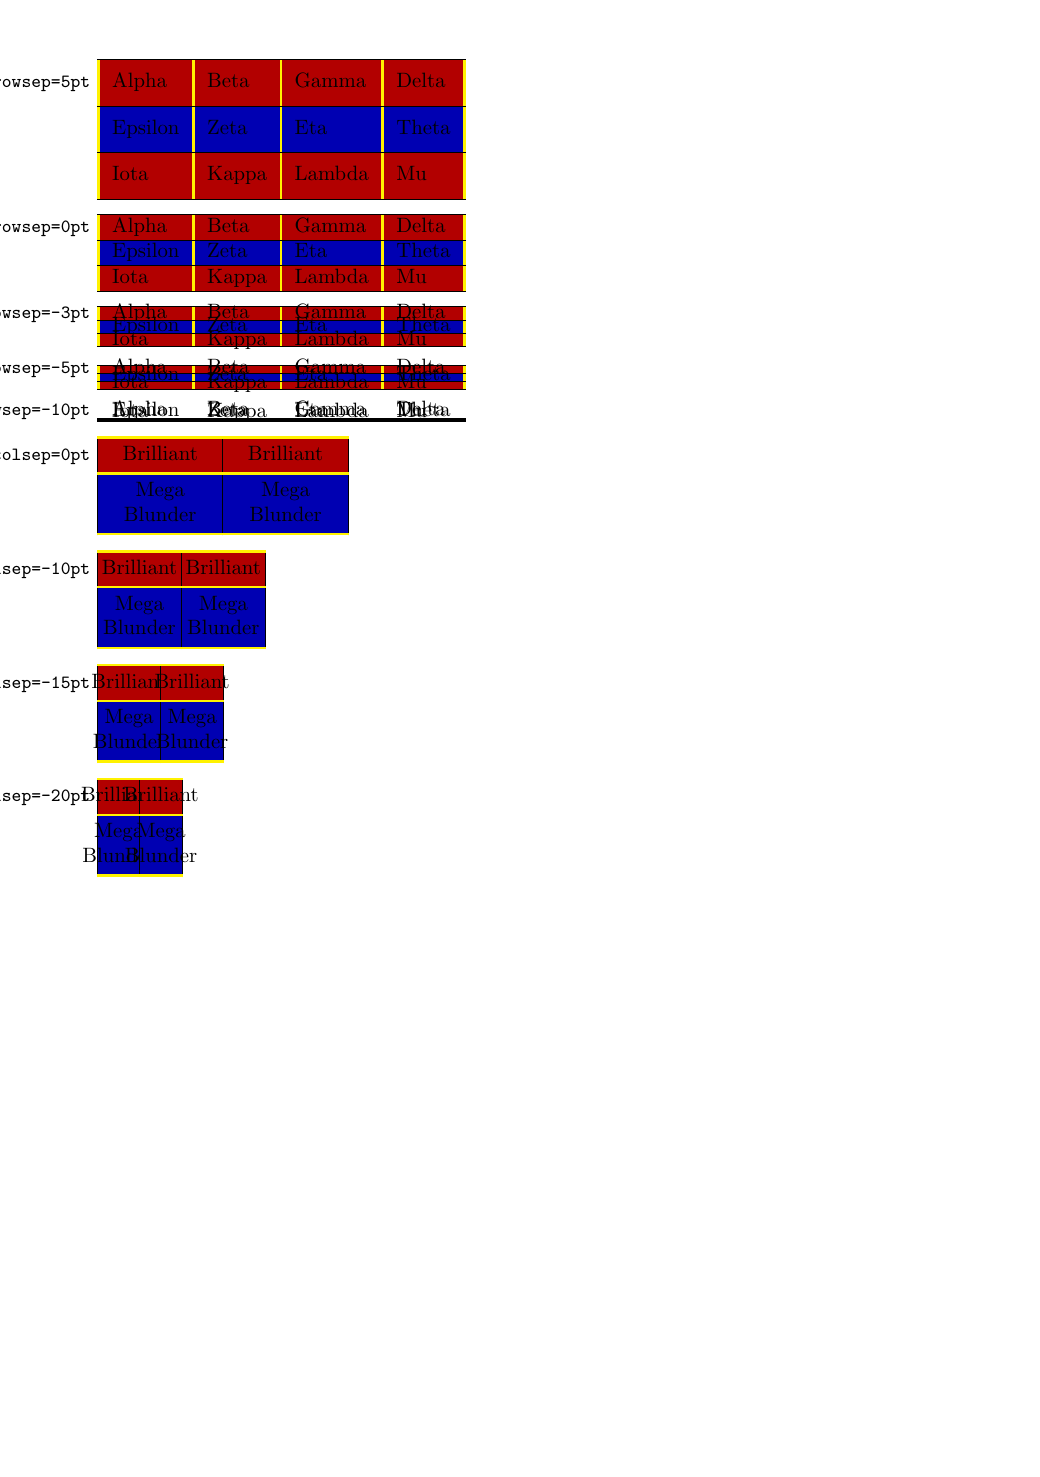
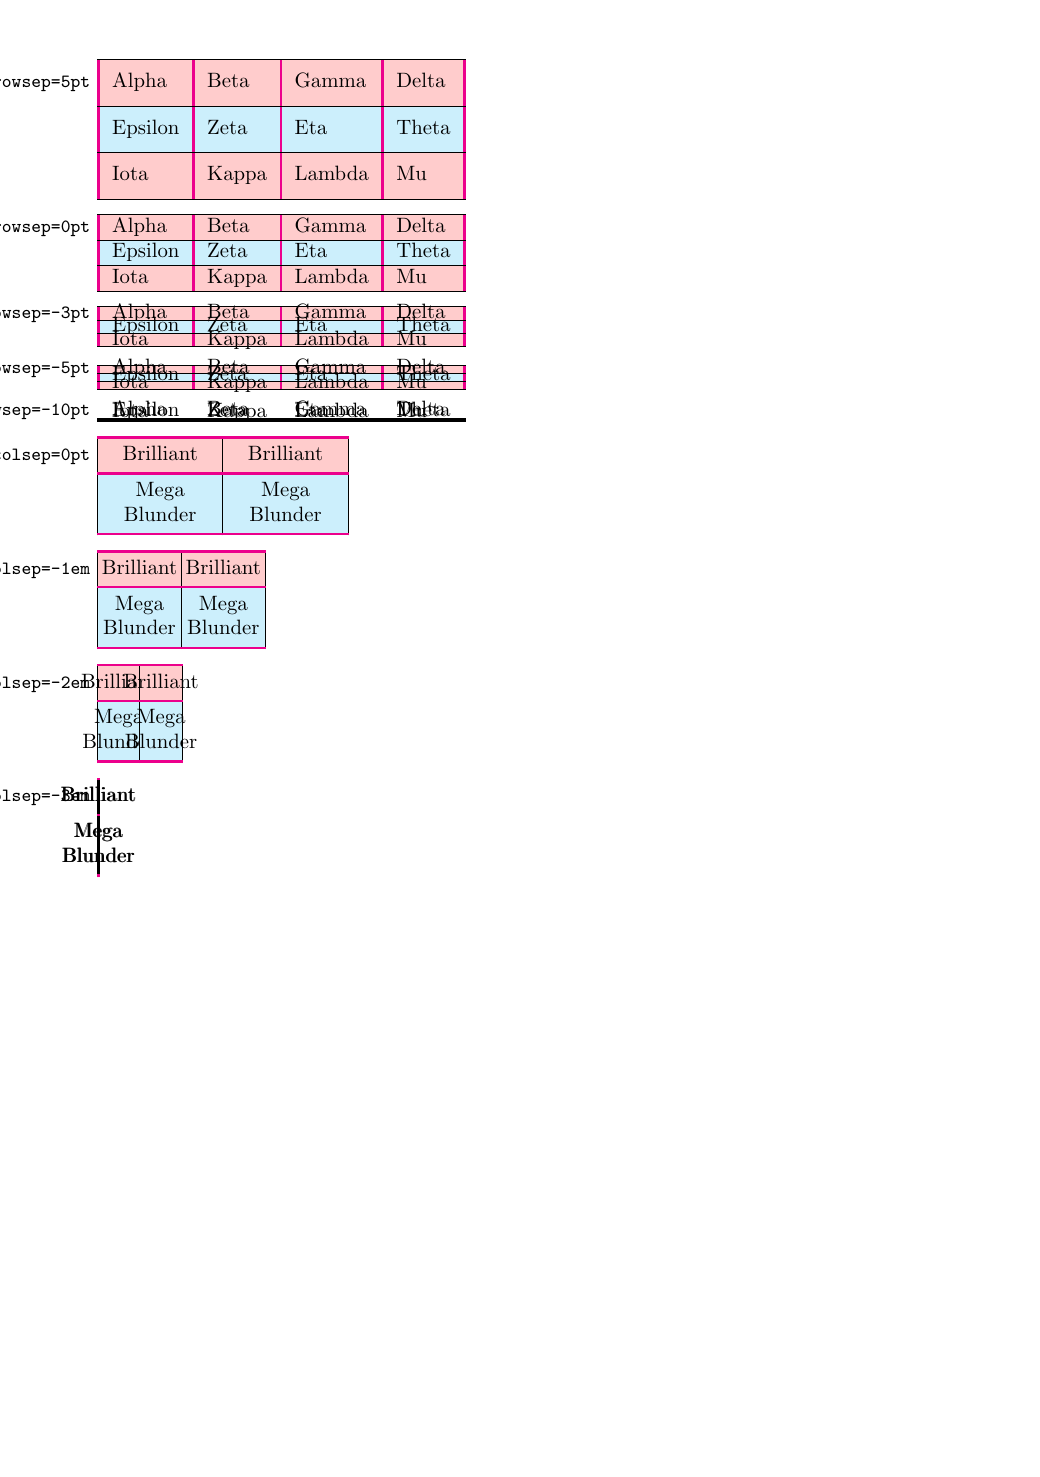
address comments
- change how the dims are calculated to raise warning for negative
  colsep
- add TEST statements to preserve warnings in logs

Changed region(s): [[0.0, 0.0311, 0.4615, 0.5917]]

diff --git a/testfiles/rowcol-006.tex b/testfiles/rowcol-006.tex
@@ -4,14 +4,16 @@
 \input{regression-test}
 
 \begin{document}
+\START
+
 \SetTblrInner{hspan=default}
 \def\testrowsep#1{%
   \leavevmode\llap{\small\texttt{\detokenize{#1}}}
   \begin{tblr}{
     hlines,
-    vlines={bg=yellow, wd=.3ex},
-    row{odd}={red!70!black},
-    row{even}={blue!70!black},
+    vlines={bg=magenta, wd=.3ex},
+    row{odd}={red!20},
+    row{even}={cyan!20},
     baseline=T,
     #1
   }
@@ -25,10 +27,10 @@
 \def\testcolsep#1{%
   \leavevmode\llap{\small\texttt{\detokenize{#1}}}
   \begin{tblr}{
-    hlines={bg=yellow, wd=.3ex},
+    hlines={bg=magenta, wd=.3ex},
     vlines,
-    row{odd}={red!70!black},
-    row{even}={blue!70!black},
+    row{odd}={red!20},
+    row{even}={cyan!20},
     baseline=T,
     columns={c, 6em},
     #1
@@ -38,14 +40,17 @@
   \end{tblr}
   \par\medskip
 }
-
+\BEGINTEST{Negative rowsep and its warning}
 \testrowsep{rowsep=5pt}
 \testrowsep{rowsep=0pt}
 \testrowsep{rowsep=-3pt}
 \testrowsep{rowsep=-5pt}
 \testrowsep{rowsep=-10pt}
+\ENDTEST
+\BEGINTEST{Negative colsep and its warning}
 \testcolsep{colsep=0pt}
-\testcolsep{colsep=-10pt}
-\testcolsep{colsep=-15pt}
-\testcolsep{colsep=-20pt}
+\testcolsep{colsep=-1em}
+\testcolsep{colsep=-2em}
+\testcolsep{colsep=-3em}
+\ENDTEST
 \end{document}
